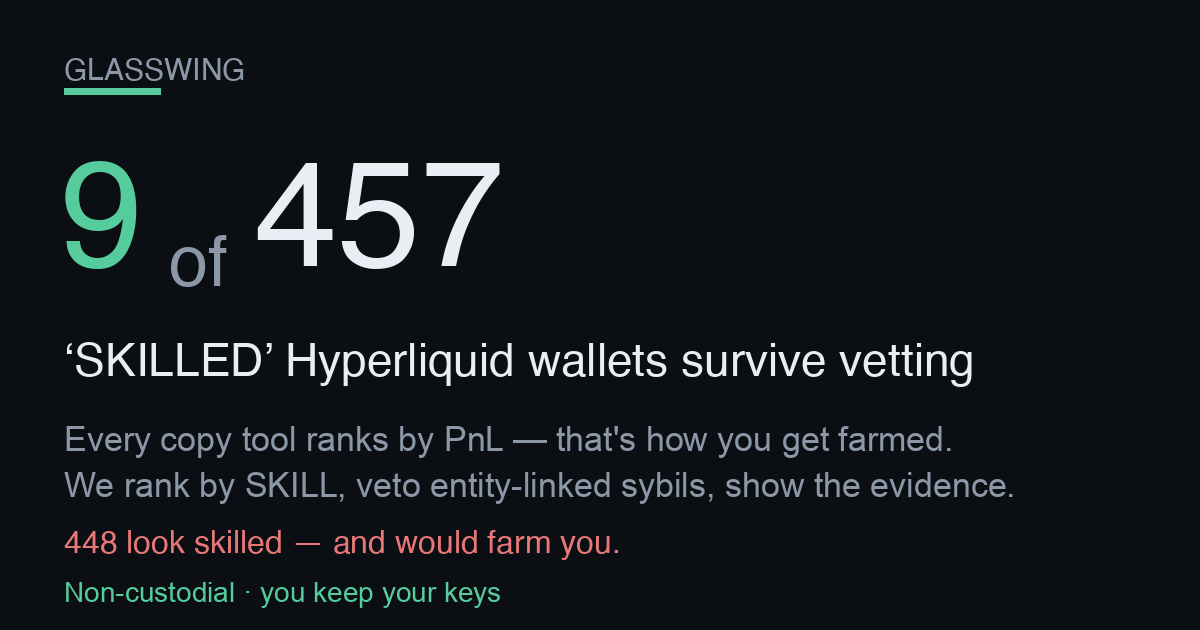
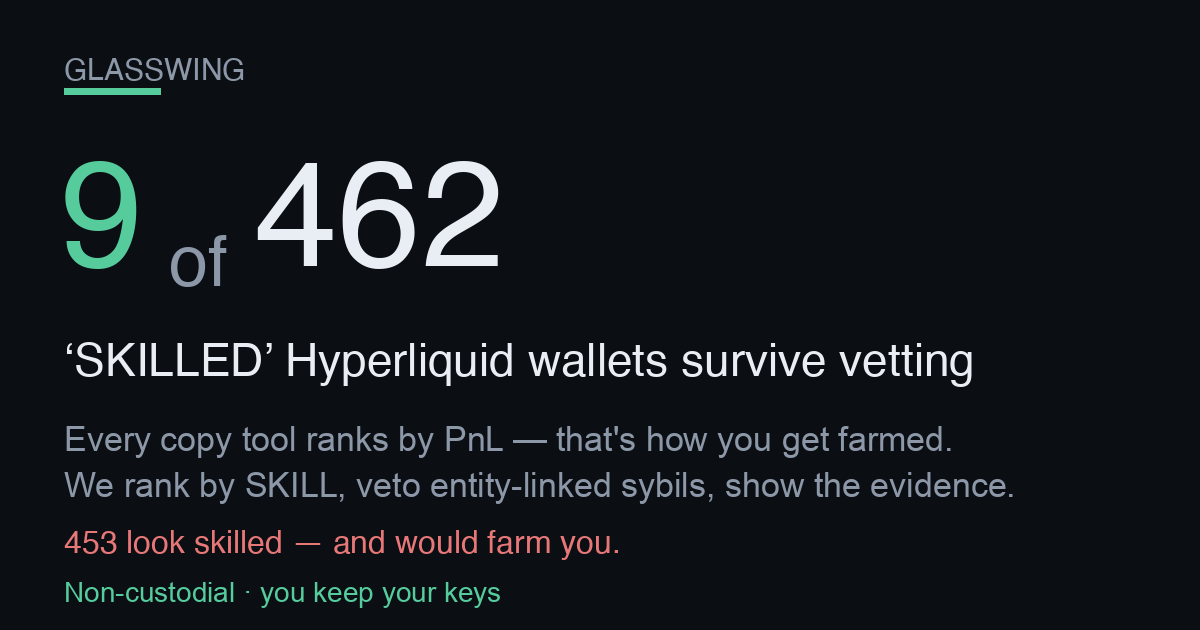
publish funnel 2026-09-24T10:48:32Z

Changed region(s): [[0.2775, 0.2413, 0.4317, 0.4222], [0.0617, 0.8444, 0.0925, 0.8746]]

diff --git a/screener.html b/screener.html
@@ -57,4 +57,4 @@ padding:11px 22px;font-size:15px;font-weight:800;border:1px solid var(--good)}
 footer{margin-top:34px;color:var(--muted);font-size:12px;line-height:1.6;
 border-top:1px solid var(--line);padding-top:16px}
 footer b{color:var(--ink)}
-</style></head><body><div class="wrap"><div class="nav"><a href="./index.html">&larr; Glasswing home</a><span class="sep">|</span><span>Edge Screener</span><span class="sep">|</span><a href="./dex.html">Copy a vetted leader</a></div><div class="hero"><h1>Hyperliquid Edge Screener</h1><div class="sub">Where&rsquo;s the carry, where a maker earns, and what&rsquo;s moving on Hyperliquid &mdash; live, computed from the public API. Bookmark it. Every number below is real and timestamped.</div><div class="stamp">Data as of <b>2026-09-23T02:25:25Z</b> &middot; rendered 2026-09-23T02:25:25Z &middot; 178 perps &middot; 108 HIP-3 (xyz) markets scanned</div></div><h2>Top funding &mdash; the carry table <span class="hint">perps ranked by annualized funding. Positive = longs pay shorts (a delta-neutral short earns it).</span></h2><div class="tblwrap"><table><thead><tr><th>Coin</th><th>Funding / hr</th><th>Annualized</th><th>Who pays</th><th>Open interest</th><th>24h volume</th></tr></thead><tbody><tr><td class="coin">REZ</td><td>+0.0191%</td><td class="pos">+167.6%</td><td><span class="tag longs">longs pay</span></td><td>$1.5M</td><td>$353K</td></tr><tr><td class="coin">KAITO</td><td>+0.0148%</td><td class="pos">+129.5%</td><td><span class="tag longs">longs pay</span></td><td>$2.3M</td><td>$1.1M</td></tr><tr><td class="coin">APEX<span class="tag thin" title="Low liquidity/OI &mdash; ADL &amp; liquidation risk; funding can flip">&#9888; thin</span></td><td>+0.0140%</td><td class="pos">+122.4%</td><td><span class="tag longs">longs pay</span></td><td>$2.9M</td><td>$131K</td></tr><tr><td class="coin">GRAM</td><td>+0.0135%</td><td class="pos">+118.3%</td><td><span class="tag longs">longs pay</span></td><td>$38.7M</td><td>$7.7M</td></tr><tr><td class="coin">ARB</td><td>+0.0133%</td><td class="pos">+116.6%</td><td><span class="tag longs">longs pay</span></td><td>$48.8M</td><td>$46.8M</td></tr><tr><td class="coin">IMX<span class="tag thin" title="Low liquidity/OI &mdash; ADL &amp; liquidation risk; funding can flip">&#9888; thin</span></td><td>+0.0123%</td><td class="pos">+107.7%</td><td><span class="tag longs">longs pay</span></td><td>$3.6M</td><td>$249K</td></tr><tr><td class="coin">HMSTR<span class="tag thin" title="Low liquidity/OI &mdash; ADL &amp; liquidation risk; funding can flip">&#9888; thin</span></td><td>+0.0123%</td><td class="pos">+107.6%</td><td><span class="tag longs">longs pay</span></td><td>$2.0M</td><td>$94K</td></tr><tr><td class="coin">FET</td><td>+0.0119%</td><td class="pos">+104.3%</td><td><span class="tag longs">longs pay</span></td><td>$10.2M</td><td>$4.6M</td></tr><tr><td class="coin">NIL</td><td>+0.0118%</td><td class="pos">+103.5%</td><td><span class="tag longs">longs pay</span></td><td>$6.5M</td><td>$6.0M</td></tr><tr><td class="coin">AERO</td><td>+0.0114%</td><td class="pos">+100.0%</td><td><span class="tag longs">longs pay</span></td><td>$25.9M</td><td>$7.4M</td></tr><tr><td class="coin">BSV</td><td>+0.0114%</td><td class="pos">+99.9%</td><td><span class="tag longs">longs pay</span></td><td>$1.9M</td><td>$1.9M</td></tr><tr><td class="coin">PENDLE</td><td>+0.0098%</td><td class="pos">+86.2%</td><td><span class="tag longs">longs pay</span></td><td>$14.7M</td><td>$6.3M</td></tr></tbody></table></div><h2>Widest HIP-3 spreads &mdash; where a maker earns <span class="hint">xyz: markets by impact-price spread vs the ~0.6bps round-trip fee. A resting limit order captures the gap.</span></h2><div class="tblwrap"><table><thead><tr><th>Market</th><th>Spread</th><th>vs 0.6bps fee</th><th>Mid</th><th>24h volume</th></tr></thead><tbody><tr><td class="coin">xyz:CVX<span class="tag gm">growth</span></td><td>714.2 bps</td><td class="pos">+713.6 bps</td><td>202.5100</td><td>$33K</td></tr><tr><td class="coin">xyz:BIRD<span class="tag gm">growth</span></td><td>159.2 bps</td><td class="pos">+158.6 bps</td><td>2.3925</td><td>$21K</td></tr><tr><td class="coin">xyz:NCLD<span class="tag gm">growth</span></td><td>135.9 bps</td><td class="pos">+135.3 bps</td><td>25.3725</td><td>$75K</td></tr><tr><td class="coin">xyz:SOFTBANK<span class="tag gm">growth</span></td><td>105.6 bps</td><td class="pos">+105.0 bps</td><td>41.3410</td><td>$703K</td></tr><tr><td class="coin">xyz:KSTR<span class="tag gm">growth</span></td><td>102.9 bps</td><td class="pos">+102.3 bps</td><td>24.3225</td><td>$3K</td></tr><tr><td class="coin">xyz:SHAZ<span class="tag gm">growth</span></td><td>102.1 bps</td><td class="pos">+101.5 bps</td><td>62.3550</td><td>$559K</td></tr><tr><td class="coin">xyz:QNT<span class="tag gm">growth</span></td><td>74.4 bps</td><td class="pos">+73.8 bps</td><td>52.8805</td><td>$455K</td></tr><tr><td class="coin">xyz:XBI<span class="tag gm">growth</span></td><td>63.6 bps</td><td class="pos">+63.0 bps</td><td>161.9400</td><td>$14K</td></tr><tr><td class="coin">xyz:ZM<span class="tag gm">growth</span></td><td>60.0 bps</td><td class="pos">+59.4 bps</td><td>91.0390</td><td>$201K</td></tr><tr><td class="coin">xyz:EBAY<span class="tag gm">growth</span></td><td>54.6 bps</td><td class="pos">+54.0 bps</td><td>109.5050</td><td>$112K</td></tr><tr><td class="coin">xyz:BMNR</td><td>54.5 bps</td><td class="pos">+53.9 bps</td><td>29.0290</td><td>$2.7M</td></tr><tr><td class="coin">xyz:BOT<span class="tag gm">growth</span></td><td>51.0 bps</td><td class="pos">+50.4 bps</td><td>28.4160</td><td>$519K</td></tr></tbody></table></div><h2>Momentum &amp; volume &mdash; what&rsquo;s moving <span class="hint">perps by 24h volume with the 24h price change (mark vs prior-day).</span></h2><div class="tblwrap"><table><thead><tr><th>Coin</th><th>24h volume</th><th>24h change</th><th>Mark</th></tr></thead><tbody><tr><td class="coin">BTC</td><td>$2.61B</td><td class="pos">+1.00%</td><td>86,649.00</td></tr><tr><td class="coin">ETH</td><td>$923.0M</td><td class="pos">+0.60%</td><td>2,762.60</td></tr><tr><td class="coin">ZEC</td><td>$635.8M</td><td class="pos">+10.76%</td><td>1,616.40</td></tr><tr><td class="coin">HYPE</td><td>$582.1M</td><td class="pos">+3.73%</td><td>96.9510</td></tr><tr><td class="coin">SOL</td><td>$261.7M</td><td class="pos">+0.69%</td><td>118.5600</td></tr><tr><td class="coin">NEAR</td><td>$261.1M</td><td class="neg">-2.44%</td><td>4.3300</td></tr><tr><td class="coin">XRP</td><td>$249.1M</td><td class="pos">+4.67%</td><td>1.5905</td></tr><tr><td class="coin">UNI</td><td>$125.6M</td><td class="pos">+15.31%</td><td>10.5420</td></tr><tr><td class="coin">TAO</td><td>$66.3M</td><td class="neg">-2.76%</td><td>314.3030</td></tr><tr><td class="coin">ENA</td><td>$57.6M</td><td class="pos">+2.76%</td><td>0.21722</td></tr><tr><td class="coin">BCH</td><td>$55.0M</td><td class="pos">+27.61%</td><td>340.0400</td></tr><tr><td class="coin">kPEPE</td><td>$53.4M</td><td class="neg">-2.13%</td><td>0.004911</td></tr></tbody></table></div><div class="cta"><h2>These are the opportunities. Now copy the people who trade them.</h2><p class="lead">Spotting the carry and the spreads is the easy part &mdash; sizing, timing and risk are where most traders bleed. Copy the <b>skill-vetted</b> Hyperliquid leaders who actually trade these edges. Non-custodial: <b>you keep your keys and your funds</b> the entire time.</p><div class="row"><a class="btn" href="./index.html">See the vetted leaders &rarr;</a><a class="btn ghost" href="./dex.html">Start copying (non-custodial) &rarr;</a></div><div class="nc"><b>Non-custodial &amp; honest:</b> we never hold your keys or funds. Copying routes through a <b>0.01%</b> (1bp) on-chain builder fee &mdash; that is the only thing we ever charge, and it is the same fee shown on the copy page. Nothing on this screener is executed for you; it is information only.</div></div><footer><b>Not financial advice.</b> Funding rates, spreads and volumes are live snapshots that change every block; figures can be stale by the time you act. A high funding rate is <b>not free money</b> &mdash; the biggest rates sit on the thinnest, most crowded books (flagged &#9888; thin), where funding can flip against you and auto-deleveraging (ADL) or liquidation can close your position. &ldquo;Spread&rdquo; here is the impact-price spread (a conservative maker signal), not a guaranteed fill. HIP-3 markets are experimental. Do your own research and size responsibly. Glasswing is <b>non-custodial</b> &mdash; we never take custody of your keys or funds.</footer></div></body></html>
+</style></head><body><div class="wrap"><div class="nav"><a href="./index.html">&larr; Glasswing home</a><span class="sep">|</span><span>Edge Screener</span><span class="sep">|</span><a href="./dex.html">Copy a vetted leader</a></div><div class="hero"><h1>Hyperliquid Edge Screener</h1><div class="sub">Where&rsquo;s the carry, where a maker earns, and what&rsquo;s moving on Hyperliquid &mdash; live, computed from the public API. Bookmark it. Every number below is real and timestamped.</div><div class="stamp">Data as of <b>2026-09-24T10:43:51Z</b> &middot; rendered 2026-09-24T10:43:51Z &middot; 178 perps &middot; 109 HIP-3 (xyz) markets scanned</div></div><h2>Top funding &mdash; the carry table <span class="hint">perps ranked by annualized funding. Positive = longs pay shorts (a delta-neutral short earns it).</span></h2><div class="tblwrap"><table><thead><tr><th>Coin</th><th>Funding / hr</th><th>Annualized</th><th>Who pays</th><th>Open interest</th><th>24h volume</th></tr></thead><tbody><tr><td class="coin">ATOM</td><td>-0.0105%</td><td class="neg">-92.3%</td><td><span class="tag shorts">shorts pay</span></td><td>$3.8M</td><td>$1.5M</td></tr><tr><td class="coin">TRUMP</td><td>-0.0053%</td><td class="neg">-46.8%</td><td><span class="tag shorts">shorts pay</span></td><td>$11.7M</td><td>$17.7M</td></tr><tr><td class="coin">MINA</td><td>-0.0051%</td><td class="neg">-44.7%</td><td><span class="tag shorts">shorts pay</span></td><td>$3.7M</td><td>$695K</td></tr><tr><td class="coin">LIT</td><td>-0.0039%</td><td class="neg">-34.2%</td><td><span class="tag shorts">shorts pay</span></td><td>$217.4M</td><td>$105.7M</td></tr><tr><td class="coin">JUP</td><td>-0.0032%</td><td class="neg">-28.1%</td><td><span class="tag shorts">shorts pay</span></td><td>$13.7M</td><td>$9.4M</td></tr><tr><td class="coin">0G</td><td>+0.0031%</td><td class="pos">+27.0%</td><td><span class="tag longs">longs pay</span></td><td>$2.6M</td><td>$568K</td></tr><tr><td class="coin">SPX</td><td>+0.0023%</td><td class="pos">+19.9%</td><td><span class="tag longs">longs pay</span></td><td>$9.7M</td><td>$13.4M</td></tr><tr><td class="coin">TRX</td><td>-0.0015%</td><td class="neg">-13.5%</td><td><span class="tag shorts">shorts pay</span></td><td>$11.9M</td><td>$2.5M</td></tr><tr><td class="coin">AXS<span class="tag thin" title="Low liquidity/OI &mdash; ADL &amp; liquidation risk; funding can flip">&#9888; thin</span></td><td>-0.0015%</td><td class="neg">-13.1%</td><td><span class="tag shorts">shorts pay</span></td><td>$442K</td><td>$463K</td></tr><tr><td class="coin">NEAR</td><td>+0.0014%</td><td class="pos">+12.0%</td><td><span class="tag longs">longs pay</span></td><td>$330.7M</td><td>$450.6M</td></tr><tr><td class="coin">GRASS</td><td>+0.0014%</td><td class="pos">+11.9%</td><td><span class="tag longs">longs pay</span></td><td>$17.8M</td><td>$4.1M</td></tr><tr><td class="coin">ETH</td><td>+0.0013%</td><td class="pos">+11.0%</td><td><span class="tag longs">longs pay</span></td><td>$2.83B</td><td>$1.55B</td></tr></tbody></table></div><h2>Widest HIP-3 spreads &mdash; where a maker earns <span class="hint">xyz: markets by impact-price spread vs the ~0.6bps round-trip fee. A resting limit order captures the gap.</span></h2><div class="tblwrap"><table><thead><tr><th>Market</th><th>Spread</th><th>vs 0.6bps fee</th><th>Mid</th><th>24h volume</th></tr></thead><tbody><tr><td class="coin">xyz:BIRD<span class="tag gm">growth</span></td><td>192.2 bps</td><td class="pos">+191.6 bps</td><td>2.3582</td><td>$18K</td></tr><tr><td class="coin">xyz:OURA<span class="tag gm">growth</span></td><td>142.5 bps</td><td class="pos">+141.9 bps</td><td>51.3745</td><td>$1.0M</td></tr><tr><td class="coin">xyz:NCLD<span class="tag gm">growth</span></td><td>138.1 bps</td><td class="pos">+137.5 bps</td><td>24.3935</td><td>$47K</td></tr><tr><td class="coin">xyz:KSTR<span class="tag gm">growth</span></td><td>127.9 bps</td><td class="pos">+127.3 bps</td><td>23.6055</td><td>$6K</td></tr><tr><td class="coin">xyz:GIGADEV<span class="tag gm">growth</span></td><td>99.2 bps</td><td class="pos">+98.6 bps</td><td>57.5400</td><td>$534K</td></tr><tr><td class="coin">xyz:SHEIN<span class="tag gm">growth</span></td><td>91.2 bps</td><td class="pos">+90.6 bps</td><td>4.7689</td><td>$134K</td></tr><tr><td class="coin">xyz:NET<span class="tag gm">growth</span></td><td>86.8 bps</td><td class="pos">+86.2 bps</td><td>346.7600</td><td>$368K</td></tr><tr><td class="coin">xyz:CVX<span class="tag gm">growth</span></td><td>79.1 bps</td><td class="pos">+78.5 bps</td><td>208.2600</td><td>$21K</td></tr><tr><td class="coin">xyz:SHAZ<span class="tag gm">growth</span></td><td>73.1 bps</td><td class="pos">+72.5 bps</td><td>56.2655</td><td>$520K</td></tr><tr><td class="coin">xyz:KR200<span class="tag gm">growth</span></td><td>62.7 bps</td><td class="pos">+62.1 bps</td><td>1,095.90</td><td>$556K</td></tr><tr><td class="coin">xyz:BOT<span class="tag gm">growth</span></td><td>62.2 bps</td><td class="pos">+61.6 bps</td><td>28.4855</td><td>$556K</td></tr><tr><td class="coin">xyz:GEV<span class="tag gm">growth</span></td><td>59.6 bps</td><td class="pos">+59.0 bps</td><td>934.6350</td><td>$110K</td></tr></tbody></table></div><h2>Momentum &amp; volume &mdash; what&rsquo;s moving <span class="hint">perps by 24h volume with the 24h price change (mark vs prior-day).</span></h2><div class="tblwrap"><table><thead><tr><th>Coin</th><th>24h volume</th><th>24h change</th><th>Mark</th></tr></thead><tbody><tr><td class="coin">BTC</td><td>$4.83B</td><td class="neg">-2.96%</td><td>83,385.00</td></tr><tr><td class="coin">ETH</td><td>$1.55B</td><td class="neg">-3.48%</td><td>2,643.20</td></tr><tr><td class="coin">HYPE</td><td>$911.5M</td><td class="neg">-5.38%</td><td>90.6300</td></tr><tr><td class="coin">ZEC</td><td>$871.5M</td><td class="neg">-9.27%</td><td>1,468.70</td></tr><tr><td class="coin">NEAR</td><td>$450.6M</td><td class="neg">-9.85%</td><td>4.1785</td></tr><tr><td class="coin">SOL</td><td>$433.5M</td><td class="neg">-3.56%</td><td>113.3402</td></tr><tr><td class="coin">XRP</td><td>$245.0M</td><td class="neg">-8.07%</td><td>1.4618</td></tr><tr><td class="coin">LIT</td><td>$105.7M</td><td class="neg">-4.20%</td><td>4.9606</td></tr><tr><td class="coin">UNI</td><td>$91.8M</td><td class="neg">-9.53%</td><td>8.8775</td></tr><tr><td class="coin">PUMP</td><td>$84.0M</td><td class="neg">-11.42%</td><td>0.003807</td></tr><tr><td class="coin">TAO</td><td>$61.0M</td><td class="neg">-9.62%</td><td>281.0060</td></tr><tr><td class="coin">ENA</td><td>$55.1M</td><td class="neg">-5.49%</td><td>0.20133</td></tr></tbody></table></div><div class="cta"><h2>These are the opportunities. Now copy the people who trade them.</h2><p class="lead">Spotting the carry and the spreads is the easy part &mdash; sizing, timing and risk are where most traders bleed. Copy the <b>skill-vetted</b> Hyperliquid leaders who actually trade these edges. Non-custodial: <b>you keep your keys and your funds</b> the entire time.</p><div class="row"><a class="btn" href="./index.html">See the vetted leaders &rarr;</a><a class="btn ghost" href="./dex.html">Start copying (non-custodial) &rarr;</a></div><div class="nc"><b>Non-custodial &amp; honest:</b> we never hold your keys or funds. Copying routes through a <b>0.01%</b> (1bp) on-chain builder fee &mdash; that is the only thing we ever charge, and it is the same fee shown on the copy page. Nothing on this screener is executed for you; it is information only.</div></div><footer><b>Not financial advice.</b> Funding rates, spreads and volumes are live snapshots that change every block; figures can be stale by the time you act. A high funding rate is <b>not free money</b> &mdash; the biggest rates sit on the thinnest, most crowded books (flagged &#9888; thin), where funding can flip against you and auto-deleveraging (ADL) or liquidation can close your position. &ldquo;Spread&rdquo; here is the impact-price spread (a conservative maker signal), not a guaranteed fill. HIP-3 markets are experimental. Do your own research and size responsibly. Glasswing is <b>non-custodial</b> &mdash; we never take custody of your keys or funds.</footer></div></body></html>

diff --git a/track.html b/track.html
@@ -62,35 +62,35 @@ font-weight:600;font-size:14px}
 <div class="wrap">
   <div class="hero">
     <h1>Self-verifying on-chain track record</h1>
-    <div class="big">$43.39</div>
+    <div class="big">$41.78</div>
     <div class="sub">current on-chain equity (perp + vault + spot USDC)</div>
     <div class="addr">0xbe6C1b09662BbE52CC93279D103Feb27985DdBc1</div>
-    <div class="stage building">66 days live — BUILDING</div>
+    <div class="stage building">67 days live — BUILDING</div>
   </div>
 
   
 
   <h2>On-chain figures <span style="color:var(--muted);font-weight:400;font-size:13px">
   &mdash; every one reproducible from the public info API</span></h2>
-  <table><tbody><tr><td class="k">On-chain equity (perp + vault + spot USDC)</td><td class="v">$43.39</td></tr><tr><td class="k">Perp account value</td><td class="v">$31.64</td></tr><tr><td class="k">Vault equity</td><td class="v">$0.16</td></tr><tr><td class="k">Spot USDC</td><td class="v">$11.60</td></tr><tr><td class="k">Withdrawable</td><td class="v">$14.00</td></tr></tbody></table>
+  <table><tbody><tr><td class="k">On-chain equity (perp + vault + spot USDC)</td><td class="v">$41.78</td></tr><tr><td class="k">Perp account value</td><td class="v">$30.02</td></tr><tr><td class="k">Vault equity</td><td class="v">$0.17</td></tr><tr><td class="k">Spot USDC</td><td class="v">$11.60</td></tr><tr><td class="k">Withdrawable</td><td class="v">$30.02</td></tr></tbody></table>
 
-  <h2>Vault deposits (on-chain)</h2><table><thead><tr><th>Vault address</th><th>Our equity</th></tr></thead><tbody><tr><td class="mono">0x2431edfcb662e6ff6deab113cc91878a0b53fb0f</td><td class="v">$0.01</td></tr><tr><td class="mono">0x697bc3dd77539fa84156d0e1c95287ea5524fd6b</td><td class="v">$0.00</td></tr><tr><td class="mono">0x8825e6ed11c7f9c0874579c9f4bba192b9e81c8f</td><td class="v">$0.12</td></tr><tr><td class="mono">0xc71f5a493b937e4b1798b86510630336a6dfd804</td><td class="v">$0.03</td></tr></tbody></table>
+  <h2>Vault deposits (on-chain)</h2><table><thead><tr><th>Vault address</th><th>Our equity</th></tr></thead><tbody><tr><td class="mono">0x2431edfcb662e6ff6deab113cc91878a0b53fb0f</td><td class="v">$0.01</td></tr><tr><td class="mono">0x697bc3dd77539fa84156d0e1c95287ea5524fd6b</td><td class="v">$0.00</td></tr><tr><td class="mono">0x8825e6ed11c7f9c0874579c9f4bba192b9e81c8f</td><td class="v">$0.13</td></tr><tr><td class="mono">0xc71f5a493b937e4b1798b86510630336a6dfd804</td><td class="v">$0.03</td></tr></tbody></table>
 
   <h2>Performance <span style="color:var(--muted);font-weight:400;font-size:13px">
   &mdash; honest stage, no annualization</span></h2>
-  <table><tbody><tr><td class="k">Days live (our formal record)</td><td class="v">66</td></tr><tr><td class="k">Maturity</td><td class="v">BUILDING</td></tr><tr><td class="k">Current real strategy income / day</td><td class="v">$0.0217</td></tr><tr><td class="k">Cumulative net income (if attributed)</td><td class="v">$38.0121</td></tr><tr><td class="k">Annualized APR</td><td class="v">shown per-day above</td></tr></tbody></table>
+  <table><tbody><tr><td class="k">Days live (our formal record)</td><td class="v">67</td></tr><tr><td class="k">Maturity</td><td class="v">BUILDING</td></tr><tr><td class="k">Current real strategy income / day</td><td class="v">$0.0121</td></tr><tr><td class="k">Cumulative net income (if attributed)</td><td class="v">$37.9763</td></tr><tr><td class="k">Annualized APR</td><td class="v">shown per-day above</td></tr></tbody></table>
 
   <h2>Strategy arms <span style="color:var(--muted);font-weight:400;font-size:13px">
   &mdash; internal marks, cross-checkable against chain equity</span></h2>
-  <table><thead><tr><th>Arm</th><th>Status</th><th>Real / day</th><th>Note</th></tr></thead><tbody><tr><td class="v">carry</td><td><span class="badge off">—</span></td><td class="v">$0.0217</td><td class="k"></td></tr><tr><td class="v">copy</td><td><span class="badge live">live</span></td><td class="v">$0.0000</td><td class="k"></td></tr><tr><td class="v">builder</td><td><span class="badge off">—</span></td><td class="v">$0.0000</td><td class="k">proven live; $0 until distributed (∝ users&#x27; volume)</td></tr></tbody></table>
+  <table><thead><tr><th>Arm</th><th>Status</th><th>Real / day</th><th>Note</th></tr></thead><tbody><tr><td class="v">carry</td><td><span class="badge off">—</span></td><td class="v">$0.0121</td><td class="k"></td></tr><tr><td class="v">copy</td><td><span class="badge live">live</span></td><td class="v">$0.0000</td><td class="k"></td></tr><tr><td class="v">builder</td><td><span class="badge off">—</span></td><td class="v">$0.0000</td><td class="k">proven live; $0 until distributed (∝ users&#x27; volume)</td></tr></tbody></table>
 
   <h2>Reproduce it</h2>
   <div class="verify"><h3>Verify this yourself</h3><p>These are PUBLIC calls. Run them yourself against the address below and you will re-derive every on-chain figure on this page. equity_usd = perp accountValue + vault equity + spot USDC. Endpoint: https://api.hyperliquid.xyz/info</p><div class="cn">clearinghouseState &rarr; marginSummary.accountValue (perp value), withdrawable, marginSummary.totalMarginUsed</div><pre>curl -s -X POST https://api.hyperliquid.xyz/info -H &#x27;Content-Type: application/json&#x27; -d &#x27;{&quot;type&quot;: &quot;clearinghouseState&quot;, &quot;user&quot;: &quot;0xbe6C1b09662BbE52CC93279D103Feb27985DdBc1&quot;}&#x27;</pre><div class="cn">userVaultEquities &rarr; sum of each entry&#x27;s equity (our vault deposits)</div><pre>curl -s -X POST https://api.hyperliquid.xyz/info -H &#x27;Content-Type: application/json&#x27; -d &#x27;{&quot;type&quot;: &quot;userVaultEquities&quot;, &quot;user&quot;: &quot;0xbe6C1b09662BbE52CC93279D103Feb27985DdBc1&quot;}&#x27;</pre><div class="cn">spotClearinghouseState &rarr; balances[] where coin==USDC -&gt; total (spot USDC)</div><pre>curl -s -X POST https://api.hyperliquid.xyz/info -H &#x27;Content-Type: application/json&#x27; -d &#x27;{&quot;type&quot;: &quot;spotClearinghouseState&quot;, &quot;user&quot;: &quot;0xbe6C1b09662BbE52CC93279D103Feb27985DdBc1&quot;}&#x27;</pre></div>
 
   <footer>
     <div>Self-verifying: every on-chain figure is reproducible by querying Hyperliquid&#x27;s public info API for the stated address. Internal daily marks are cross-checkable against on-chain equity. EARLY-STAGE record — not a mature track record, not an APR promise, not financial advice. Past performance != future results.</div>
-    <div class="stamp">Generated at 2026-09-23T02:24:30Z &middot; internal marks
-    mtime 2026-09-23T01:27:30Z &middot; static receipt, no live
+    <div class="stamp">Generated at 2026-09-24T10:41:50Z &middot; internal marks
+    mtime 2026-09-24T07:28:16Z &middot; static receipt, no live
     authority — this page never trades or arms.</div>
   </footer>
 </div>

diff --git a/index.html b/index.html
@@ -3,8 +3,8 @@
 <head>
 <meta charset="utf-8">
 <meta name="viewport" content="width=device-width, initial-scale=1">
-<title>9 of 457 SKILLED Hyperliquid wallets survive vetting</title>
-<meta name="description" content="9 of 457 leaderboard-SKILLED Hyperliquid wallets survive vetting. Copy only the survivors, non-custodial — you keep your keys and funds.">
+<title>9 of 462 SKILLED Hyperliquid wallets survive vetting</title>
+<meta name="description" content="9 of 462 leaderboard-SKILLED Hyperliquid wallets survive vetting. Copy only the survivors, non-custodial — you keep your keys and funds.">
 <link rel="canonical" href="https://dynobit.github.io/glasswing/">
 <meta name="robots" content="index,follow">
 <meta name="theme-color" content="#0b0e13">
@@ -14,14 +14,14 @@
      head, not this. og:url is the canonical Pages home so every share resolves here. -->
 <meta property="og:type" content="website">
 <meta property="og:site_name" content="Glasswing">
-<meta property="og:title" content="9 of 457 SKILLED Hyperliquid wallets survive vetting">
+<meta property="og:title" content="9 of 462 SKILLED Hyperliquid wallets survive vetting">
 <meta property="og:description" content="Every copy tool ranks leaders by PnL — which is how you get farmed. This ranks by SKILL, then vetoes entity-linked sybils, and shows the evidence for every reject. Non-custodial: you keep your keys.">
 <meta property="og:url" content="https://dynobit.github.io/glasswing/">
 <meta property="og:image" content="https://dynobit.github.io/glasswing/og-card.png">
 <meta property="og:image:width" content="1200">
 <meta property="og:image:height" content="630">
 <meta name="twitter:card" content="summary_large_image">
-<meta name="twitter:title" content="9 of 457 SKILLED Hyperliquid wallets survive vetting">
+<meta name="twitter:title" content="9 of 462 SKILLED Hyperliquid wallets survive vetting">
 <meta name="twitter:description" content="Skill-ranked (not PnL-ranked) HL copy-leaders, entity-linked sybils vetoed with evidence. Non-custodial.">
 <meta name="twitter:image" content="https://dynobit.github.io/glasswing/og-card.png">
 <style>
@@ -135,18 +135,18 @@ footer .nc{color:var(--good);font-weight:600}
 
   <!-- 1. HERO — the shareable hook (screenshot-worthy) -->
   <div class="hero">
-    <h1><span class="big">9 of 457</span> &lsquo;SKILLED&rsquo;
+    <h1><span class="big">9 of 462</span> &lsquo;SKILLED&rsquo;
     Hyperliquid wallets survive vetting</h1>
-    <div class="sub">The other <span class="trap">448</span> look skilled on a
+    <div class="sub">The other <span class="trap">453</span> look skilled on a
     raw copy leaderboard but would farm you &mdash; here are the
-    <span class="trap">448</span> that would. Entity-linked sybils,
-    wash-traded track records, or simply unscreened. 2.0% survive.
-    Universe: 4343 scored wallets.</div>
+    <span class="trap">453</span> that would. Entity-linked sybils,
+    wash-traded track records, or simply unscreened. 1.9% survive.
+    Universe: 4436 scored wallets.</div>
   </div>
 
   <!-- 2. THE WEDGE — the marketing (why us, not any other copy tool) -->
   <div class="wedge"><span class="them">Every other copy tool ranks all
-    457 by PnL and calls it a leaderboard.</span> We are the only one that
+    462 by PnL and calls it a leaderboard.</span> We are the only one that
     <b>flags the entity-linked and farming wallets with on-chain evidence</b> &mdash;
     transfer-graph linkage between wallets and arXiv memecoin farm-features &mdash;
     and shows you only the 9 that survive. A high PnL is exactly what a
@@ -268,7 +268,7 @@ footer .nc{color:var(--good);font-weight:600}
   <footer>
     <div class="nc">Non-custodial: we never hold your keys or funds. No server, no backend. Your browser talks only to Hyperliquid&#x27;s public API.</div>
     <div>Advisory. Skill = sign-randomization null vs luck. Entity veto = public transfer-graph linkage. Farm screen = arXiv:2601.08641 features (memecoin thresholds, HL-uncalibrated). Follower-realizable PnL is NOT yet proven — a PRE-COMMITTED forward test is in progress (0/2 windows, earliest 2026-08-13); the copyability claim publishes only when the pre-registered windows close, so it cannot be discovery-mined. Exit-alpha shown is advisory. Not financial advice.</div>
-    <div class="stamp">Generated at 2026-09-23T02:24:45Z &middot; single-file funnel,
+    <div class="stamp">Generated at 2026-09-24T10:42:37Z &middot; single-file funnel,
     no live authority. In-browser order signing is IMPLEMENTED (real secp256k1 +
     keccak + msgpack EIP-712 from a pinned CDN) but UNVALIDATED against Hyperliquid:
     mainnet is blocked until a testnet order is proven accepted.</div>

diff --git a/dex.html b/dex.html
@@ -112,8 +112,8 @@ footer .nc{color:var(--good);font-weight:600}
     funds and your keys the whole time. Two signatures in your own wallet, an
     ephemeral in-browser agent key that can trade but never withdraw, and a
     client-side loop that mirrors only the
-    <b>9 of 457</b> vetted survivors
-    (universe: 4343 scored wallets). No server, no backend.</div>
+    <b>9 of 462</b> vetted survivors
+    (universe: 4436 scored wallets). No server, no backend.</div>
     <div class="tag">static bundle &middot; IPFS-publishable &middot; revenue accrues on-chain</div>
   </div>
 
@@ -217,7 +217,7 @@ footer .nc{color:var(--good);font-weight:600}
   <footer>
     <div class="nc">Pure DEX, self-custodial. No server, no backend, no key we ever hold. Your browser talks only to Hyperliquid&#x27;s public API.</div>
     <div>Advisory. Skill = sign-randomization null vs luck. Entity veto = public transfer-graph linkage. Farm screen = arXiv:2601.08641 features (memecoin thresholds, HL-uncalibrated). Follower-realizable PnL is NOT yet proven — a PRE-COMMITTED forward test is in progress (0/2 windows, earliest 2026-08-13); the copyability claim publishes only when the pre-registered windows close, so it cannot be discovery-mined. Exit-alpha shown is advisory. Not financial advice.</div>
-    <div class="stamp">Generated at 2026-09-23T02:24:45Z &middot; static,
+    <div class="stamp">Generated at 2026-09-24T10:42:37Z &middot; static,
     self-custodial surface, no live authority. In-browser order signing is
     IMPLEMENTED (real secp256k1 + keccak + msgpack EIP-712 from a pinned CDN) but
     UNVALIDATED against Hyperliquid: mainnet is blocked until a testnet order is
